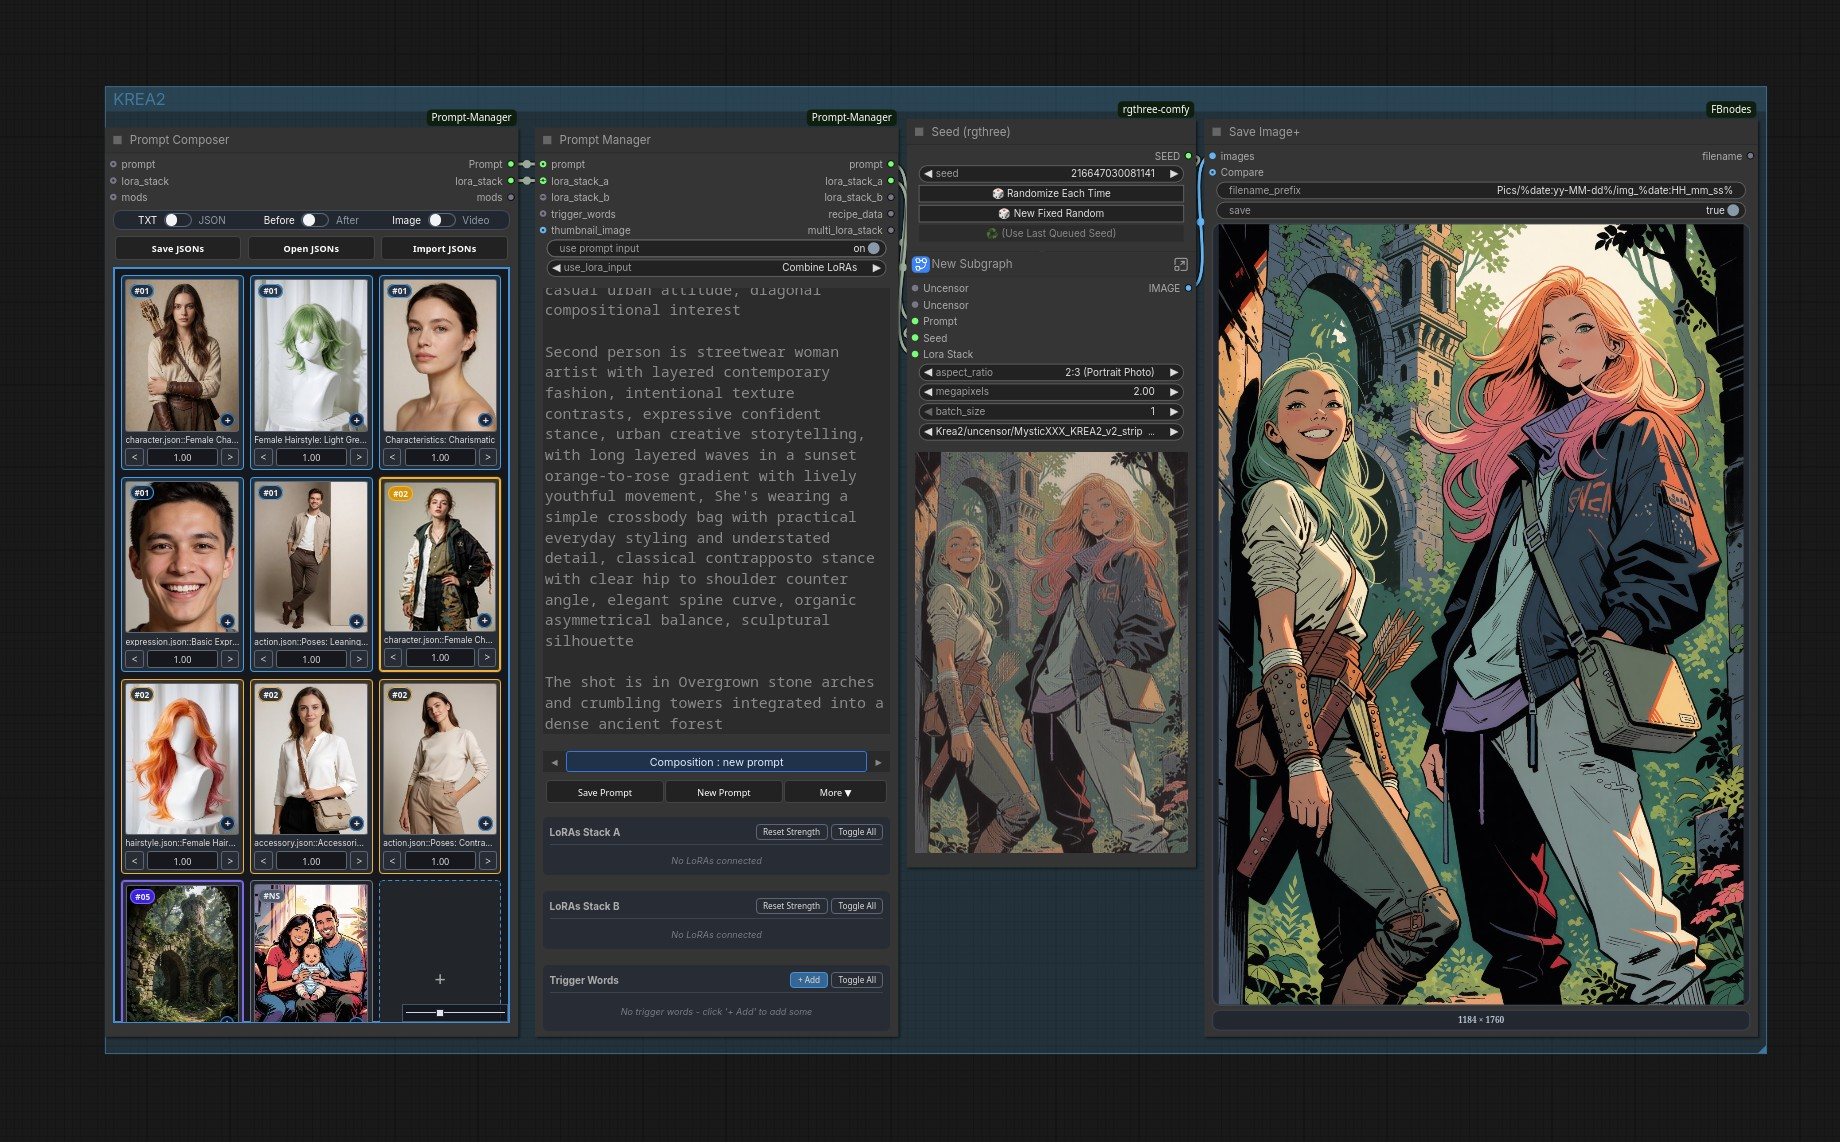
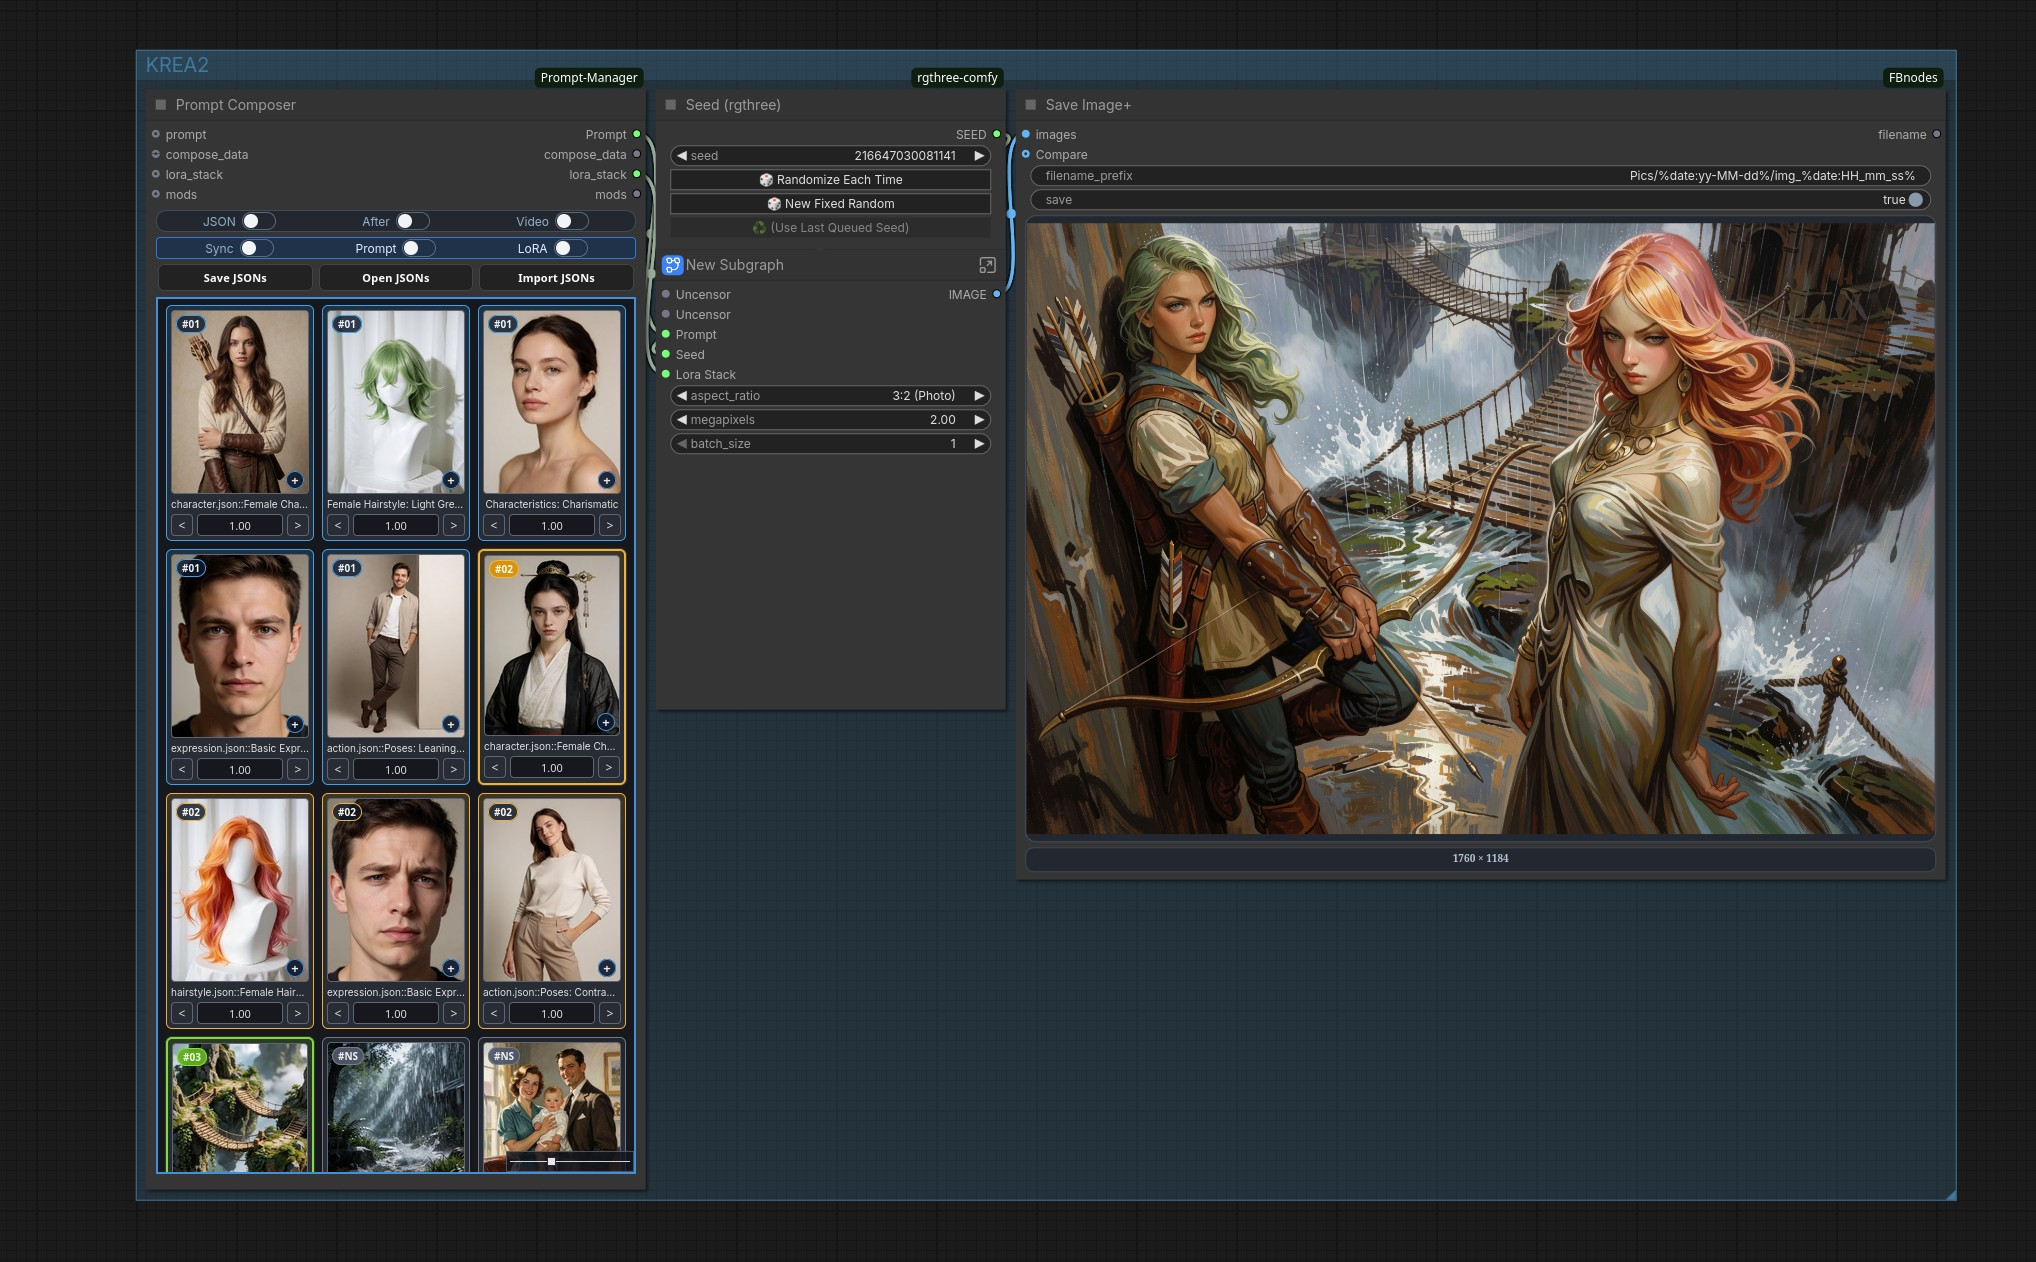
Add advanced prompt composer workflow JSON file with image saving and management features

diff --git a/nodes/prompt_composer.py b/nodes/prompt_composer.py
@@ -1084,6 +1084,10 @@ class PromptComposer:
                     "forceInput": True,
                     "tooltip": "Optional incoming prompt. Composed parts can be placed before or after it.",
                 }),
+                "compose_data": ("RECIPE_DATA,COMPOSE_DATA", {
+                    "forceInput": True,
+                    "tooltip": "Optional saved Prompt Composer payload. Connect recipe or compose data to restore Prompt Composer parts and reuse them.",
+                }),
                 "lora_stack": ("LORA_STACK", {
                     "forceInput": True,
                     "tooltip": "Optional incoming LoRA stack. Prompt Composer either uses this live input or the saved compose_data LoRA input, then appends per-prompt LoRAs.",
@@ -1091,10 +1095,6 @@ class PromptComposer:
                 "mods": ("H3_REF_MODS", {
                     "forceInput": True,
                     "tooltip": "Optional incoming RefMod bundle. Prompt Composer appends per-prompt RefMods to it.",
-                }),
-                "compose_data": ("RECIPE_DATA,COMPOSE_DATA", {
-                    "forceInput": True,
-                    "tooltip": "Optional saved Prompt Composer payload. Connect recipe or compose data to restore Prompt Composer parts and reuse them.",
                 }),
 
             },
@@ -1110,8 +1110,8 @@ class PromptComposer:
 
     CATEGORY = "Prompt Manager"
     DESCRIPTION = "Compose multiple prompt fragments with per-part strength in one node."
-    RETURN_TYPES = ("STRING", "LORA_STACK", "H3_REF_MODS", "COMPOSE_DATA")
-    RETURN_NAMES = ("Prompt", "lora_stack", "mods", "compose_data")
+    RETURN_TYPES = ("STRING", "COMPOSE_DATA", "LORA_STACK", "H3_REF_MODS")
+    RETURN_NAMES = ("Prompt", "compose_data", "lora_stack", "mods")
     FUNCTION = "compose"
     OUTPUT_NODE = True
 
@@ -1372,4 +1372,4 @@ class PromptComposer:
                 "prompt_composer": out_recipe_data.get(PROMPT_COMPOSER_RECIPE_KEY),
             })
 
-        return (final_output, merged_lora_stack, merged_mods, out_recipe_data)
+        return (final_output, out_recipe_data, merged_lora_stack, merged_mods)

diff --git a/__init__.py b/__init__.py
@@ -2,7 +2,7 @@
 ComfyUI Prompt Manager - A comprehensive prompt and workflow management system for ComfyUI.
 Features: prompt & workflow management, LoRA stacks, workflow extraction, workflow generation.
 """
-__version__ = "2.7.2"
+__version__ = "2.8.0"
 __author__ = "François Beaudry"
 __license__ = "MIT"
 
@@ -55,7 +55,7 @@ NODE_DISPLAY_NAME_MAPPINGS = {
     "PromptManagerAdvanced":      "Prompt Manager",
     "PromptManager":              "Prompt Manager (Basic)",
     "PromptComposer":             "Prompt Composer",
-    "PromptComposerManager":      "Prompt Composer Manager",
+    "PromptComposerManager":      "Compose Manager",
     "PromptBrowser":              "Prompt Browser",
     "PromptGenerator":            "Prompt Generator",
     "PromptGenOptions":           "Prompt Generator Options",

diff --git a/README.md b/README.md
@@ -105,10 +105,10 @@ Prompt Composer is a visual prompt builder for assembling full prompts from reus
 
 The Prompt Composer library now uses a more flexible v2 format built around prompt groups. This makes it much easier to add new groups, organize categories inside them, keep subject behavior per group, and manage larger prompt libraries without relying on the older flat composer JSON layout.
 
-- Compose output before or after an incoming prompt, or use it on its own.
+- Compose output before or after the selected prompt source, or use it on its own.
 - Return output as plain text or JSON.
 - Works in both image and video modes. The Video mode being formatted for Minimax.
-- Prompt fragments can include LoRAs, RefMods, and thumbnails can be generate easily.
+- Prompt fragments can include LoRAs, RefMods, and thumbnails can be generated easily.
 - Categories and prompt groups support prompt types, prefixes, and subject behavior for cleaner browsing and formatting.
 - Multi-select can become one random pool or multiple separate prompt parts.
 - Parts support subject-aware grouping, muting, reordering, merge/split actions, and per-part strength.
@@ -123,6 +123,18 @@ Node-side Prompt Composer controls include:
 - Right-click a merged part to split it back into separate prompts.
 - Drag and drop parts to reorder them.
 - Adjust fragment strength directly on the card.
+
+### Saving And Reloading Composer Workflows
+
+The **Compose Manager** node lets you save and reload full Prompt Composer workflows using **Compose Data**.
+
+To restore a saved Composer setup in **Prompt Composer**, use the **second row of toggles** on the node:
+
+- **Sync** rebuilds the Prompt Composer graph from the incoming `compose_data`
+- **Prompt** uses the prompt stored in the incoming `compose_data`
+- **LoRA** uses the LoRAs stored in the incoming `compose_data`
+
+This allows `compose_data` to take priority over directly connected prompt and LoRA inputs when those toggles are enabled.
 
 <div align="center">
   <figcaption>Use Prompt Composer to build prompts from reusable fragments, including random multi-prompt groups.</figcaption>
